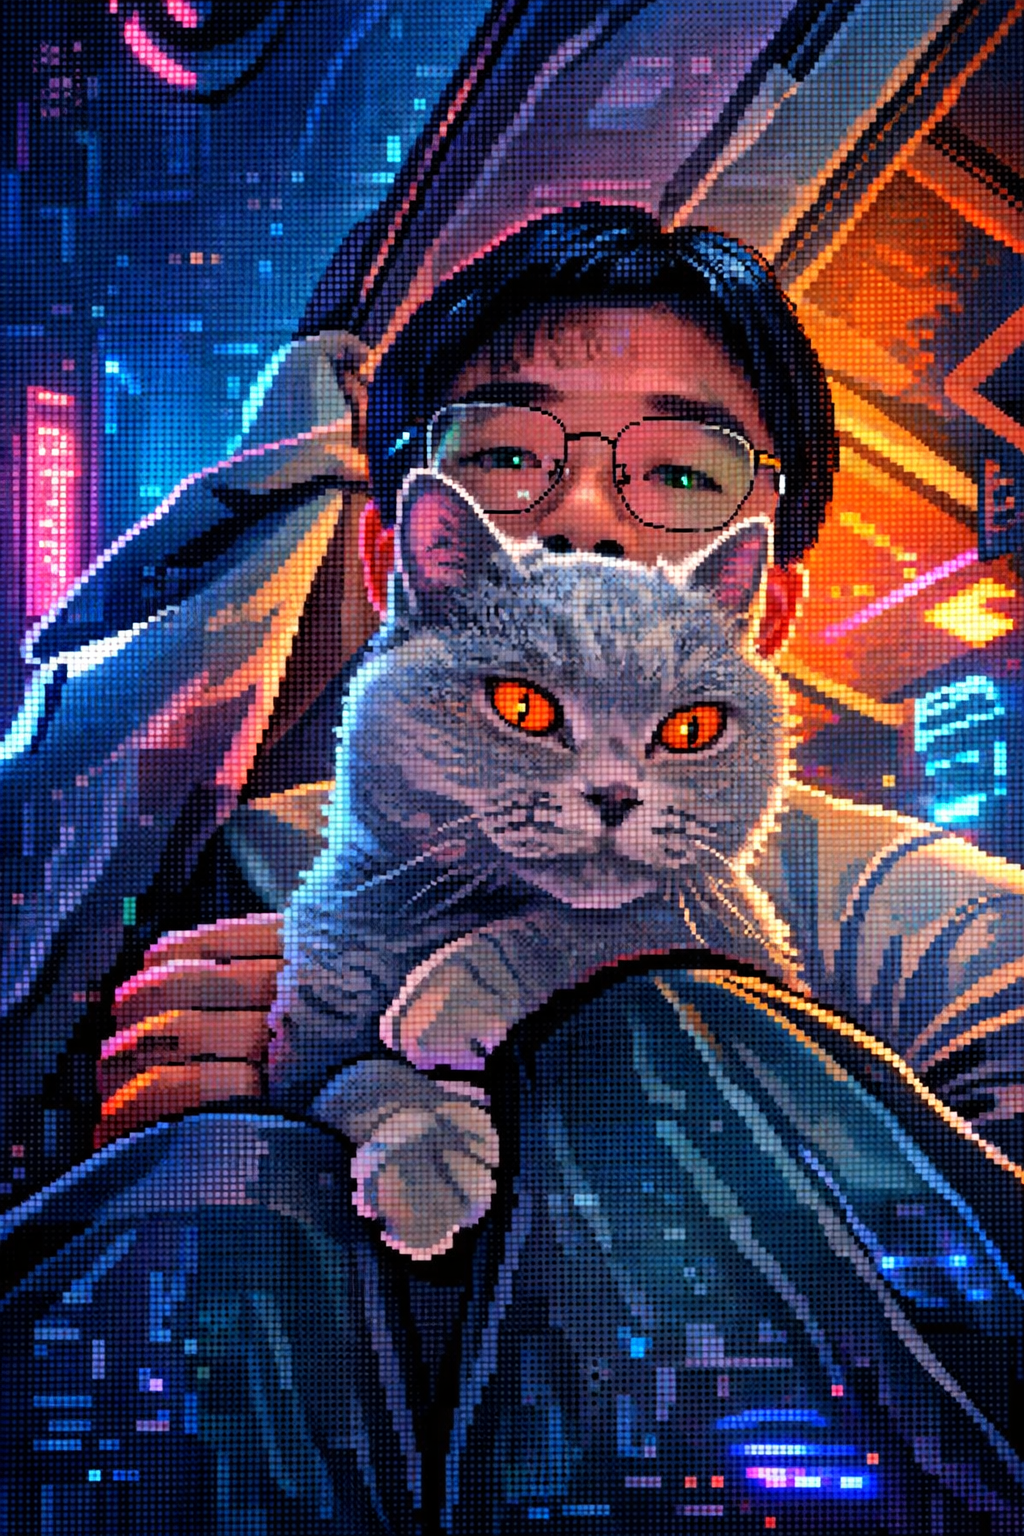
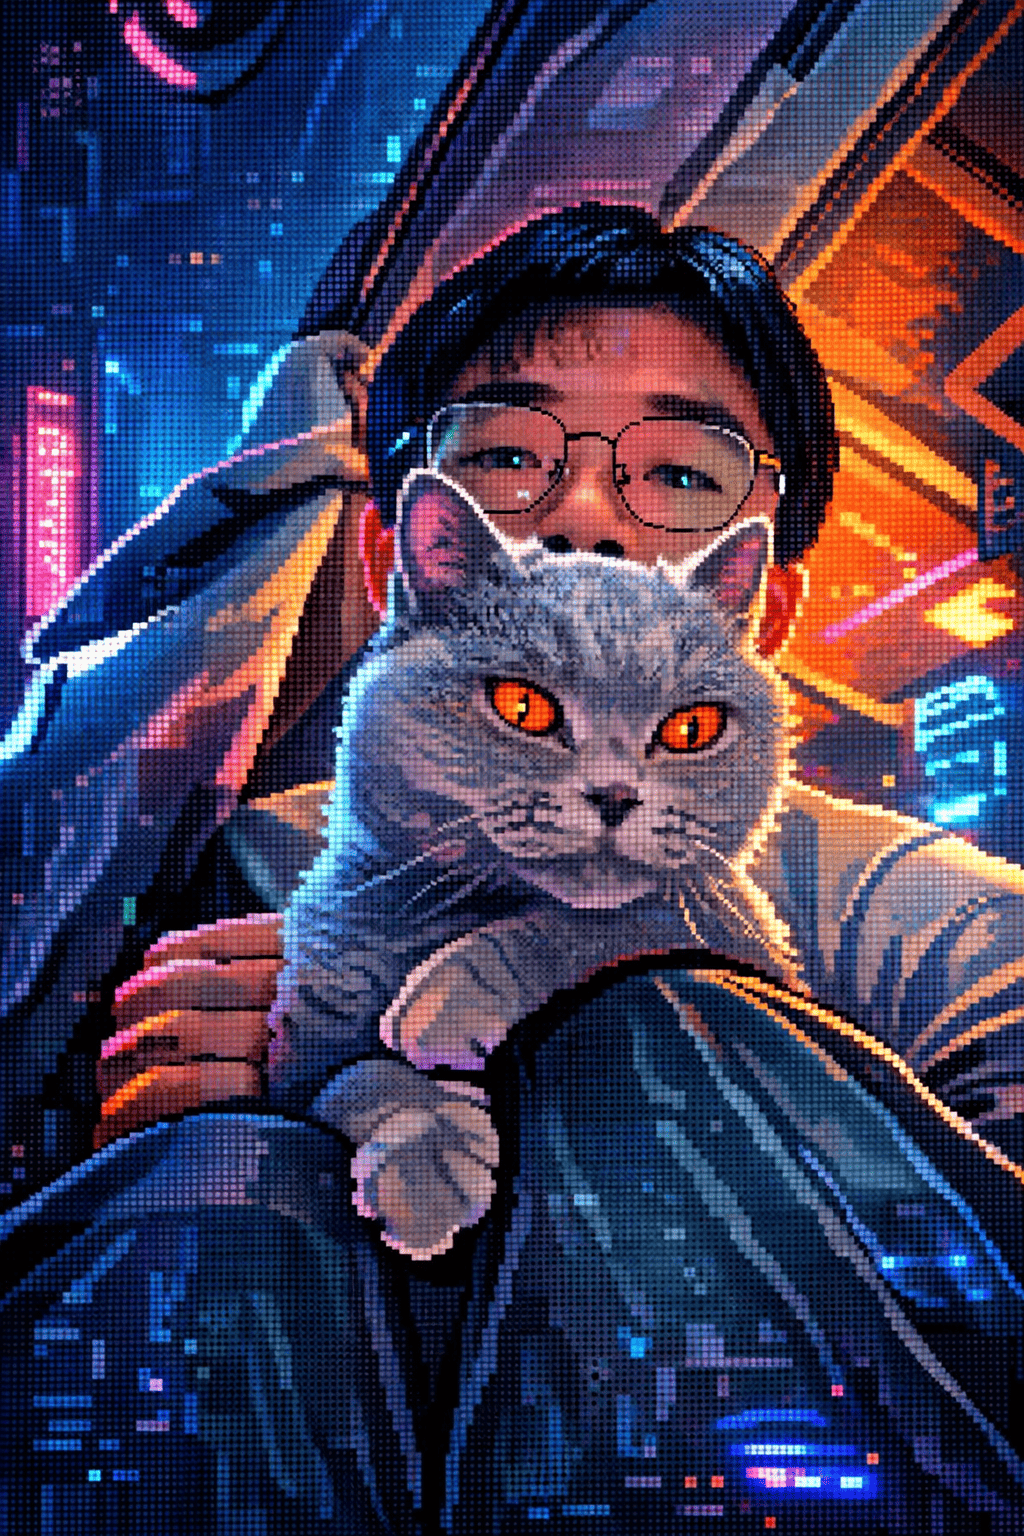
Add HTTPS security configuration

diff --git a/index.html b/index.html
@@ -3,6 +3,8 @@
 <head>
   <meta charset="UTF-8">
   <meta name="viewport" content="width=device-width, initial-scale=1.0">
+  <meta http-equiv="Content-Security-Policy" content="upgrade-insecure-requests">
+  <meta http-equiv="Strict-Transport-Security" content="max-age=31536000; includeSubDomains">
   <title>Chenの思维星球</title>
   <link rel="icon" type="image/png" href="/favicon.png">
 </head>
